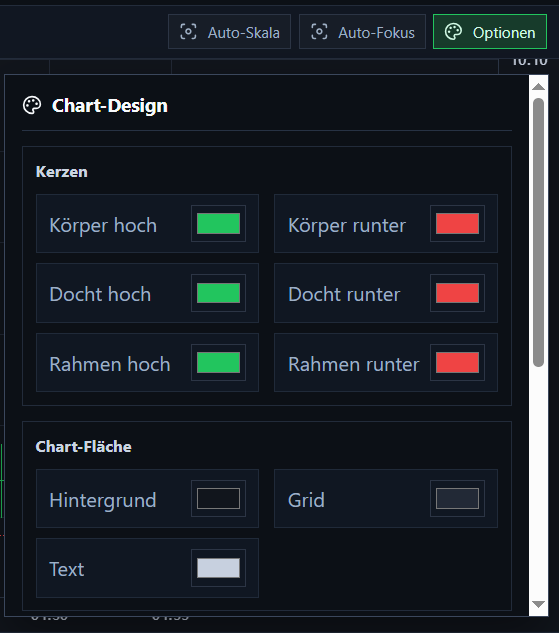
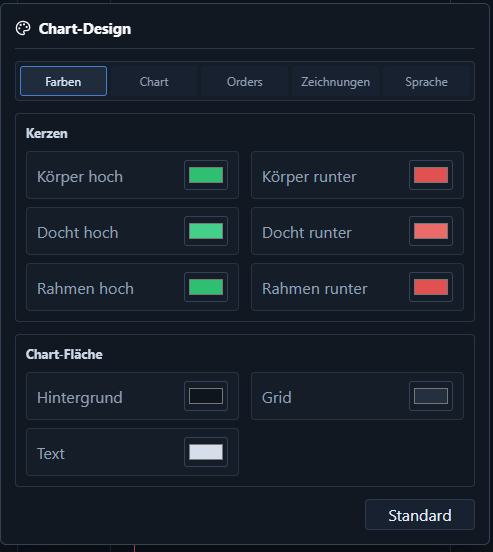
Update README with features and screenshots

diff --git a/README.md b/README.md
@@ -1,6 +1,6 @@
 # Chart_Replay_Tool
 
-Browser-App für Candle-Replay, Ordervergabe und ein internes Orderbook.
+Browser-App fuer Candle-Replay, Order-Simulation, Zeichenwerkzeuge und ein internes Orderbook.
 
 Beim Start wird automatisch diese Datei geladen:
 
@@ -19,7 +19,7 @@ URL: http://127.0.0.1:8788/
 
 Port `8787` wird bewusst nicht benutzt.
 
-Alternativ kann unter Windows die Datei `start.bat` ausgeführt werden.
+Alternativ kann unter Windows die Datei `start.bat` ausgefuehrt werden.
 
 ## CSV-Format
 
@@ -30,37 +30,67 @@ timestamp_ms,symbol,timeframe,open,high,low,close,volume
 1672531200000,SOLUSDT,5m,9.97,10.02,9.95,10.0,25797.23
 ```
 
-Unterstützte Spaltennamen:
+Unterstuetzte Spaltennamen:
 
 ```csv
 time,open,high,low,close,volume
 2026-01-01,102,106,100,104,1200
 ```
 
-Auch `date`, `datetime`, `timestamp` oder `timestamp_ms` für Zeit sowie `o,h,l,c,v` sind möglich.
+Auch `date`, `datetime`, `timestamp` oder `timestamp_ms` fuer Zeit sowie `o,h,l,c,v` sind moeglich.
 
-## Funktionen
+## Was das Programm kann
 
-- CSV laden
-- Kerzen Schritt für Schritt abspielen
+- OHLCV-Daten aus `chart_data` automatisch laden
+- CSV-Dateien manuell im Browser laden
+- Kerzen als TradingView-Lightweight-Chart anzeigen
+- Candle-Replay Schritt fuer Schritt abspielen
 - Replay-Geschwindigkeit einstellen
-- Buy/Sell Order setzen
-- automatische Order-ID
-- Entry, TP und SL als Chart-Linien
-- Orderbook mit Clear-Button
-- Replay-Reset inklusive Orderbook
-- Trade-Historie
+- Chart frei verschieben und zoomen
+- Auto-Skala und Auto-Fokus schalten
+- Buy/Sell-Limit-Orders setzen
+- automatische Order-ID vergeben
+- Pending-Orders im Chart anzeigen
+- Pending-Orders lokal zwischenspeichern und beim Neustart wiederherstellen
+- Entry, TP und SL als Linien im Chart anzeigen
+- Pending-Entry im Chart verschieben, solange die Order noch nicht aktiv ist
+- TP und SL nachtraeglich im Chart oder in der Historie anpassen
+- Schutzlogik fuer TP/SL: Buy/Sell kann nicht auf die falsche Seite gezogen werden
+- Orderbook anzeigen und leeren
+- Orders stornieren oder loeschen
+- Trades / Historie anzeigen
+- Rechtsklick-Menue im Chart zum Preis kopieren oder Order setzen
+- Design-Setup fuer Chartfarben, Kerzenkoerper, Dochte, Hintergrund, Grid und Text
+- Sprache zwischen Deutsch und Englisch umschalten
+- Zeichenwerkzeuge im Chart nutzen:
+  - Trendlinie
+  - horizontale Linie
+  - halbe horizontale Linie
+  - Rechteck / Zone
+  - Zig Zag
+- Zeichnungen verschieben, skalieren, fixieren, loeschen und lokal speichern
+- Zeichnungsfarben, Linienstarke und Rahmenstarke einstellen
+- Zig-Zag-Punkte nachtraeglich verschieben
+- `Strg`-Snap fuer Zeichenpunkte an Kerzen-High oder Kerzen-Low
 
 ## Bilder
 
-### Übersicht Order-Erstellung und Historie
+### Order-Erstellung und Historie
 
-![Übersicht Order-Erstellung und Historie](files/bilder/übersicht_order_erstellung_historie.PNG)
+![Order-Erstellung und Historie](files/bilder/uebersicht_order_erstellung_historie.PNG)
 
-### Rechtsklick Order-Menü
+### Neues Chartfenster mit Order-Uebersicht
 
-![Rechtsklick Order-Menü](files/bilder/bild_mouse_order_menu.bmp)
+![Chartfenster mit Order-Uebersicht](files/bilder/fenster_mit_order_uebersicht.PNG)
 
-### Setup-Menü
+### Zeichenwerkzeuge und Menue
 
-![Setup-Menü](files/bilder/setup_menu.PNG)
+![Zeichenwerkzeuge und Menue](files/bilder/uebersicht_tools_und_menu.PNG)
+
+### Rechtsklick Order-Menue
+
+![Rechtsklick Order-Menue](files/bilder/bild_mouse_order_menu.bmp)
+
+### Setup-Menue
+
+![Setup-Menue](files/bilder/setup_menu.PNG)